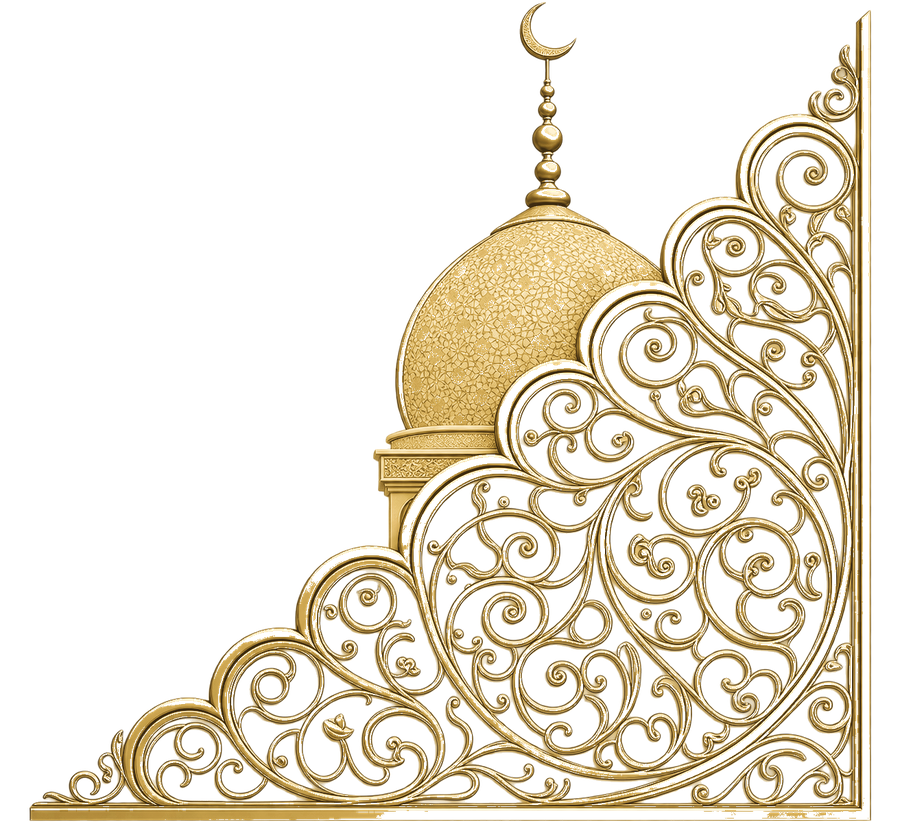
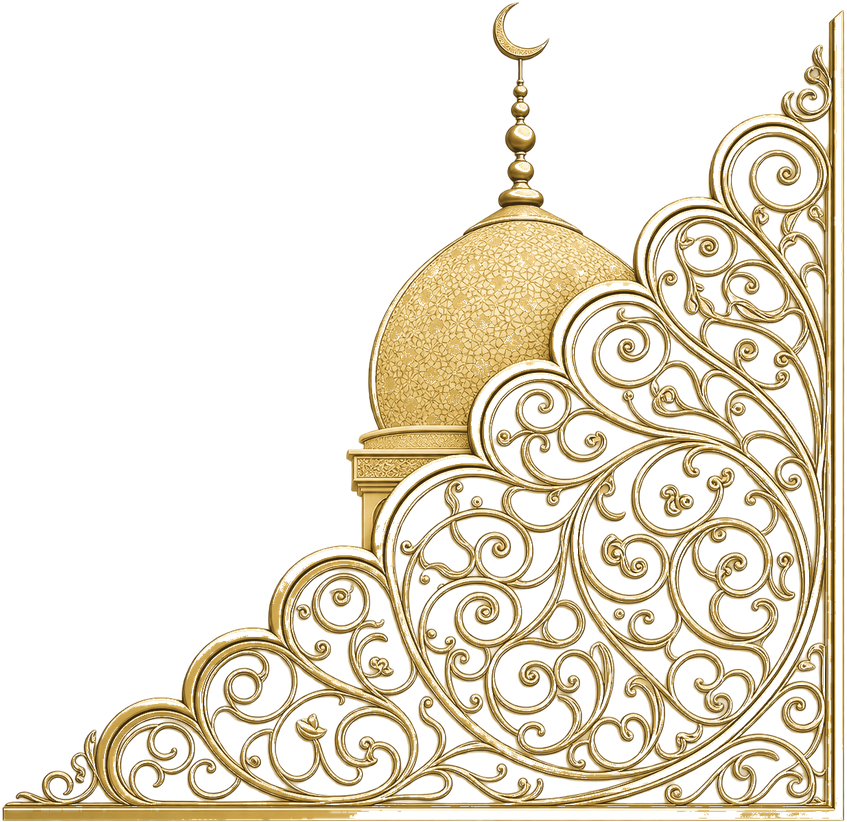
Align the four gilt corners and move the gold rules to the card edges
The corners were mismatched in two compounding ways. Each PNG carried a
different amount of empty canvas around its artwork, so the plain corners
floated ~18px clear of the card edge while the mosque sat ~7px clear; and
the two were given different width clamps on top of that, leaving a 152px
horizontal arm next to a 210px one.

Trim both PNGs to their artwork bounds and give every corner one shared
width, with each element carrying its image's exact aspect ratio. All four
arms now run the same length along the edge they sit on, and the mosque
differs only by the height of its dome.

Also move the hint of a gold rule from the padded content box onto
.card-corners, so it runs hard against the card's left and right edges
between the corner pieces, and drop "بهذه المناسبة السعيدة" from the
closing line (with the matching English trimmed to keep the two in step).

Claude-Session: https://claude.ai/code/session_018vULVKYrnf7eqngoEFkGBY

diff --git a/style.css b/style.css
@@ -631,14 +631,23 @@ body.lang-ar .sr-skip-link { letter-spacing: 0; text-transform: none; font-size:
 }
 
 /* --- gilt corners --- */
-.card-corners { position: absolute; inset: 0; z-index: 1; pointer-events: none; }
+.card-corners {
+  position: absolute;
+  inset: 0;
+  z-index: 1;
+  pointer-events: none;
+  --cnr-w: clamp(116px, 30vw, 208px);
+}
 .cnr {
   position: absolute;
   background-repeat: no-repeat;
-  background-size: contain;
+  /* the PNGs are trimmed to their artwork, and each element is given that
+     exact aspect ratio, so 100% 100% scales without distorting and the
+     ornament's right angle lands precisely on the card's corner */
+  background-size: 100% 100%;
   background-image: url("assets/corner-plain.png");
-  width: clamp(104px, 27vw, 190px);
-  aspect-ratio: 3 / 2;
+  width: var(--cnr-w);
+  aspect-ratio: 726 / 583;
   opacity: 0.92;
 }
 /* the art is drawn with its right angle at the bottom-right, so the other
@@ -648,11 +657,35 @@ body.lang-ar .sr-skip-link { letter-spacing: 0; text-transform: none; font-size:
 .cnr.tr { top: 0;    right: 0; transform: scaleY(-1); }
 .cnr.tl { top: 0;    left: 0;  transform: scale(-1, -1); }
 /* the mosque sits at the foot of the card, on the right */
+/* Same width as the other three, so every horizontal arm runs the same
+   length along the card edge; the mosque is only taller, by its dome. */
 .cnr.br {
   background-image: url("assets/corner-mosque.png");
-  aspect-ratio: 900 / 822;
-  width: clamp(124px, 32vw, 224px);
+  aspect-ratio: 847 / 822;
 }
+
+/* --- a hint of a gold rule down each edge, not a full frame ---
+   These live on .card-corners rather than the padded content box so they sit
+   hard against the card's edges, running between the gilt corners and fading
+   out well before either of them. --- */
+.card-corners::before,
+.card-corners::after {
+  content: "";
+  position: absolute;
+  top: 0;
+  bottom: 0;
+  width: 1px;
+  background: linear-gradient(to bottom,
+    transparent 0,
+    transparent 130px,
+    rgba(201,162,74,0.30) 290px,
+    rgba(201,162,74,0.30) calc(100% - 290px),
+    transparent calc(100% - 130px),
+    transparent 100%);
+  pointer-events: none;
+}
+.card-corners::before { left: 0; }
+.card-corners::after  { right: 0; }
 
 @keyframes fadeUp {
   from { opacity: 0; transform: translateY(24px); }
@@ -674,24 +707,6 @@ body.lang-ar .sr-skip-link { letter-spacing: 0; text-transform: none; font-size:
   padding-top: 0;
 }
 
-/* --- a soft hint of a gold rule down each side, not a full frame --- */
-.invite-content::before,
-.invite-content::after {
-  content: "";
-  position: absolute;
-  top: 60px;
-  height: 260px;
-  width: 1px;
-  background: linear-gradient(to bottom,
-    transparent 0%,
-    rgba(139,111,45,0.34) 30%,
-    rgba(139,111,45,0.34) 70%,
-    transparent 100%);
-  pointer-events: none;
-  z-index: 0;
-}
-.invite-content::before { left: 0; }
-.invite-content::after { right: 0; }
 
 .hero { position: relative; text-align: center; padding: 22px 0 12px; }
 

diff --git a/index.html b/index.html
@@ -195,7 +195,7 @@
     </section>
 
     <footer class="closing reveal-on-scroll">
-      <p class="closing-text" data-en="We can't wait to celebrate this joyful occasion with you" data-ar="في انتظاركم لمشاركتنا فرحتنا بهذه المناسبة السعيدة">في انتظاركم لمشاركتنا فرحتنا بهذه المناسبة السعيدة</p>
+      <p class="closing-text" data-en="We can't wait to celebrate with you" data-ar="في انتظاركم لمشاركتنا فرحتنا">في انتظاركم لمشاركتنا فرحتنا</p>
       <p class="signature" data-en-html="With love,&lt;br&gt;Omar &amp;amp; Maryam" data-ar-html="مع خالص المحبة،&lt;br&gt;عمر ومريم">مع خالص المحبة،<br>عمر ومريم</p>
     </footer>
     </div>
